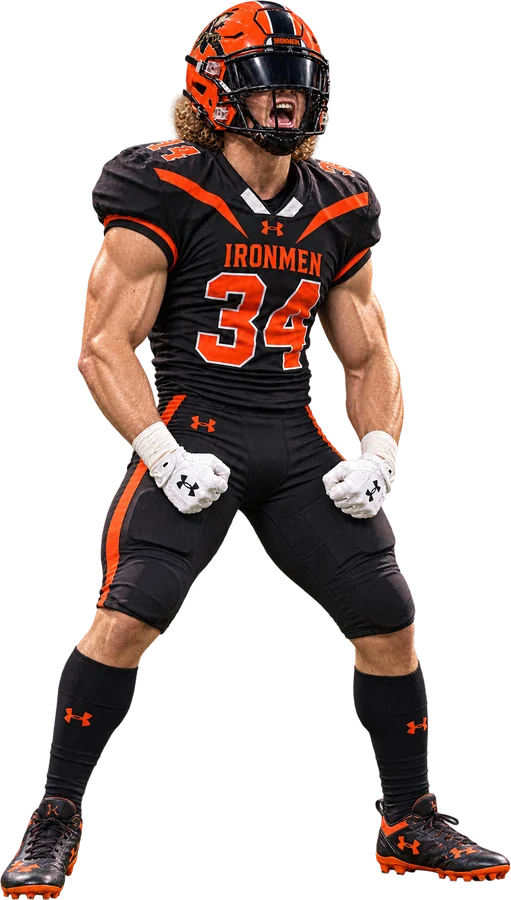
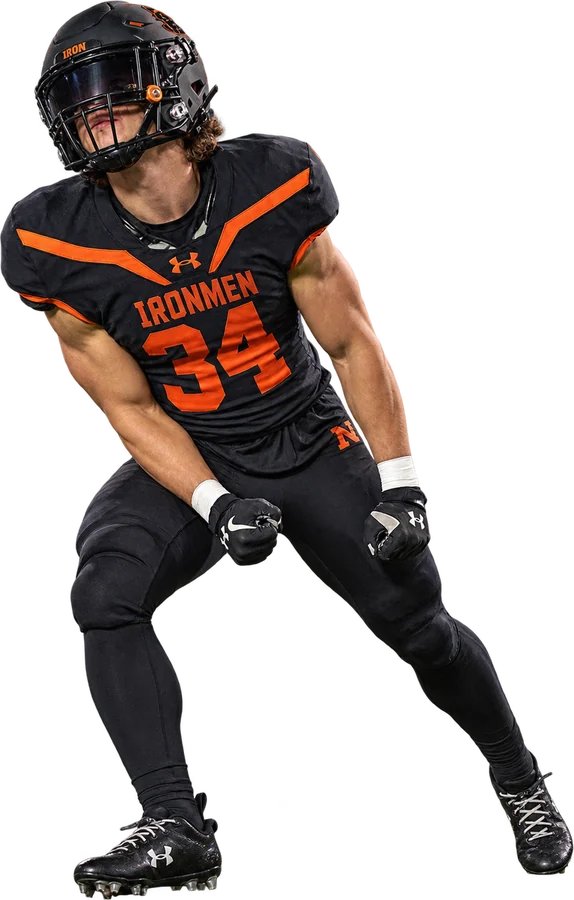
2019 Season Pack: new photo of Sam, darker foil and seals
Claude-Session: https://claude.ai/code/session_01GAG7ARsLKnKb5XiMRKfYKf

diff --git a/site.css b/site.css
@@ -4586,15 +4586,19 @@ html.ege-noscroll body { overflow: hidden; }
   --pack-deep: #1c2f55;
   --pack-hi: #c9d6f2;
 }
-/* Normal Community, for Sam's 2019 pack: black foil, lined in the Ironmen
+/* Normal Community, for Sam's 2019 pack: near-black foil with the prizm
+   turned down and the crimped seals darkened to match, lined in the Ironmen
    orange, the N behind him only its orange outline, and a black sword on
    an orange band across the foot. */
 .ege-pack.ege-pack--ironmen {
-  --foil: linear-gradient(135deg, #070708 0%, #1f1f22 18%, #4d4d53 34%, #161618 50%,
-                          #3e3e43 66%, #1f1f22 82%, #070708 100%);
+  --foil: linear-gradient(135deg, #020202 0%, #0c0c0d 18%, #1f1f22 34%, #09090a 50%,
+                          #19191b 66%, #0c0c0d 82%, #020202 100%);
   --pack-deep: #0d0d0e;
   --pack-hi: #f26901;
 }
+.ege-pack--ironmen .ege-pack__prizm { opacity: .5; }
+.ege-pack--ironmen .ege-pack__top,
+.ege-pack--ironmen .ege-pack__bottom { filter: brightness(.4); }
 /* Alabama, for Andrew's 2020 pack: the deep crimson of the script A, the A
    itself darker still behind him, and laurel leaves across the foot. */
 .ege-pack.ege-pack--bama {
@@ -4712,7 +4716,7 @@ html.ege-noscroll body { overflow: hidden; }
   position: absolute;
   z-index: 3;
   left: 50%;
-  top: 5.3%;
+  top: calc(5.3% + var(--drop, 0%));
   height: calc(88% * var(--zoom, 1));   /* feet behind the name and the trim */
   width: auto;
   max-width: none;

diff --git a/data/cards.js b/data/cards.js
@@ -161,11 +161,13 @@ EGE.cards = (function () {
      is a pack colourway in site.css (.ege-pack--{theme}); `image` a cut-out
      on a clear background in icon/packs/, and `logo` the team's, large
      behind him; `zoom` makes him bigger than the usual size (1.2 is 20%
-     bigger), his helmet staying where it is. A season not here gets a plain
+     bigger), his helmet staying where it is, and `drop` moves him down that
+     % of the pack, for a helmet that would cover the EGE Football letters. A season not here gets a plain
      pack in the Season Pack's own colours. */
   var PACK_COVERS = {
     2019: { player: 'sam-stogsdill', image: 'icon/packs/2019-sam-stogsdill.webp',
-            logo: 'icon/packs/2019-normal-logo.webp', theme: 'ironmen', zoom: 1.2 },
+            logo: 'icon/packs/2019-normal-logo.webp', theme: 'ironmen', zoom: 1.2,
+            drop: 2 },
     2020: { player: 'andrew-parr', image: 'icon/packs/2020-andrew-parr.webp',
             logo: 'icon/packs/2020-alabama-logo.webp', theme: 'bama', zoom: 1.2 },
     2021: { player: 'jaykeb-stewart', image: 'icon/packs/2021-jaykeb-stewart.webp',

diff --git a/js/cards-view.js b/js/cards-view.js
@@ -271,6 +271,7 @@ EGE.cardsView = (function () {
       var photo = el('img', 'ege-pack__player');
       photo.src = cover.image;
       if (cover.zoom) { photo.style.setProperty('--zoom', cover.zoom); }
+      if (cover.drop) { photo.style.setProperty('--drop', cover.drop + '%'); }
       photo.alt = '';
       photo.decoding = 'async';
       photo.draggable = false;

diff --git a/README.md b/README.md
@@ -1258,8 +1258,10 @@ official Carolina blue), the NC behind him and an argyle strip (Sam,
 the block O behind him and the helmet stripe across the foot, and 2020 Andrew
 at Alabama in the deep crimson of the script A, a darker A behind him and
 Greek laurel leaves across the foot, and Andrew 20% bigger than the others
-(a cover's `zoom`); 2019 has Sam at Normal Community, 20% bigger, on black foil
-lined in the Ironmen's orange, the N behind him as only its orange outline,
+(a cover's `zoom`); 2019 has Sam at Normal Community, 20% bigger and a touch
+lower (a cover's `drop`, so his helmet clears the EGE letters), on
+near-black foil with darkened seals and a dimmer prizm, lined in the
+Ironmen's orange, the N behind him as only its orange outline,
 and a black sword on an orange band across the foot (Sam, 2026-10-14). A cover
 follows its season: on the live Season Pack while it is that season, then on
 that year's pack behind the arrows. A season with no cover gets the plain
